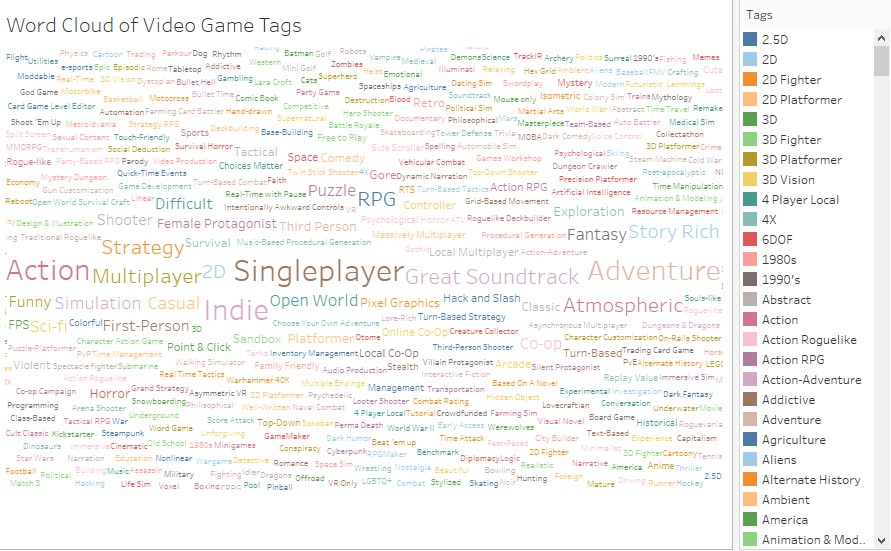
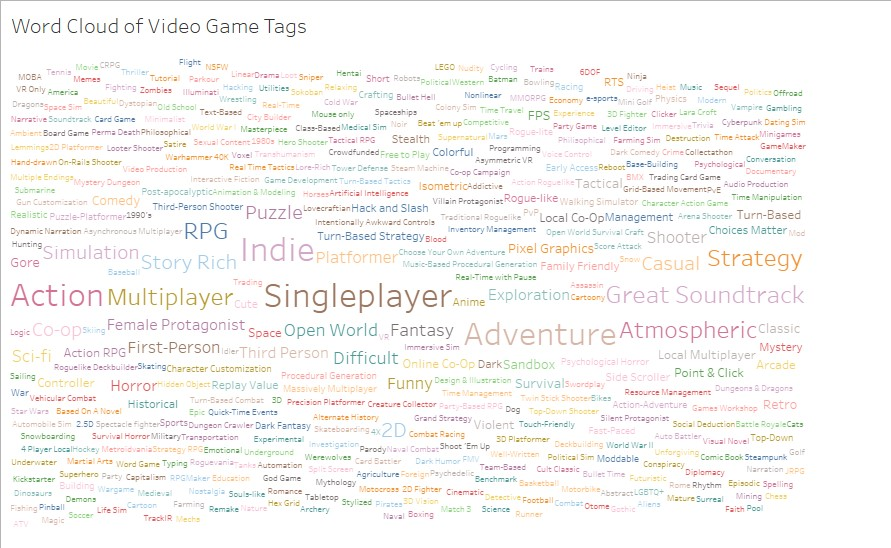
updated an image as well as resize some of the images in the visual page

Changed region(s): [[0.0, 0.0, 1.0, 1.0], [0.9697, 0.062, 1.0, 0.1551]]

diff --git a/visuals.html b/visuals.html
@@ -118,11 +118,11 @@
             <div class="col-6"> 
                 <br>  
                 <p style="color: #800000;">we either need to show the whole chart or find a way to link it so scroll bars work - i can make it its own row</p>
-                <img src="Images/Average_Price_per_Game.jpg" alt="pricepergame">
+                <img src="Images/Average_Price_per_Game.jpg" alt="pricepergame" width="600" height="600">
             </div>
             <div class="col-6">  
                 <br>  
-                <p style="color: #800000;">Bubble plot showing owners per game genre</p> 
+                <p style="color: #800000;">Bubble plot showing owners per game genre. We considered leaving out "Free To Play" however this shows us this is a significant number in our data</p> 
                 <img src="Images/Average_Number_of_Max_Owners_per_genre.jpg" alt="ownpergen">
             </div>
         </div>
@@ -130,7 +130,7 @@
             <div class="col-6"> 
                 <br>  
                 <p style="color: #800000;">Two visualizations which both show the average game price per genre</p>
-                <img src="Images/Average_Price_per_genre.jpg" alt="pricepergen">
+                <img src="Images/Average_Price_per_genre.jpg" alt="pricepergen" width="650">
             </div>
             <div class="col-6">  
                 <br>  
@@ -141,8 +141,8 @@
         <div class="row">
             <div class="col-6"> 
                 <br>  
-                <p style="color: #800000;">A word cloud showing all the different tags steam games are linked with - maybe I just crop these scrolls out, can we get the words in the tree map?</p>
-                <img src="Images/Word_Cloud_Tags.jpg" alt="pricepergen">
+                <p style="color: #800000;">A word cloud showing all the different tags steam games are linked with</p>
+                <img src="Images/Word_Cloud_Tags.jpg" alt="pricepergen" width="600">
             </div>
             <div class="col-6">  
                 <br>  
@@ -153,13 +153,13 @@
         <div class="row">
             <div class="col-6"> 
                 <br>  
-                <p style="color: #800000;">heat 1</p>
-                <img src="Images/heatmap_1.jpg" alt="heat1">
+                <p style="color: #800000;">This heat map shows the metascore of specific game genres</p>
+                <img src="Images/heatmap_1.jpg" alt="heat1" width="575">
             </div>
             <div class="col-6">  
                 <br>  
-                <p style="color: #800000;">heat 2</p> 
-                <img src="Images/heatmap_2.jpg" alt="heat2">
+                <p style="color: #800000;">This heat map shows the metascore of specific game tags</p> 
+                <img src="Images/heatmap_2.jpg" alt="heat2" width="700">
             </div>
         </div>
         <div class="row">
